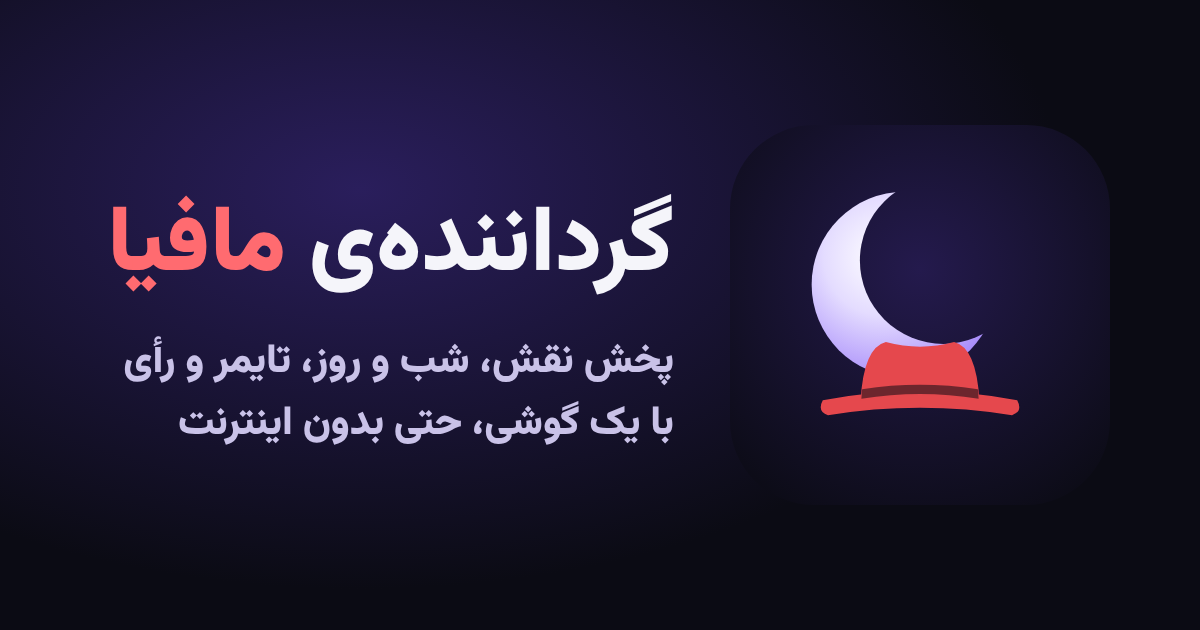
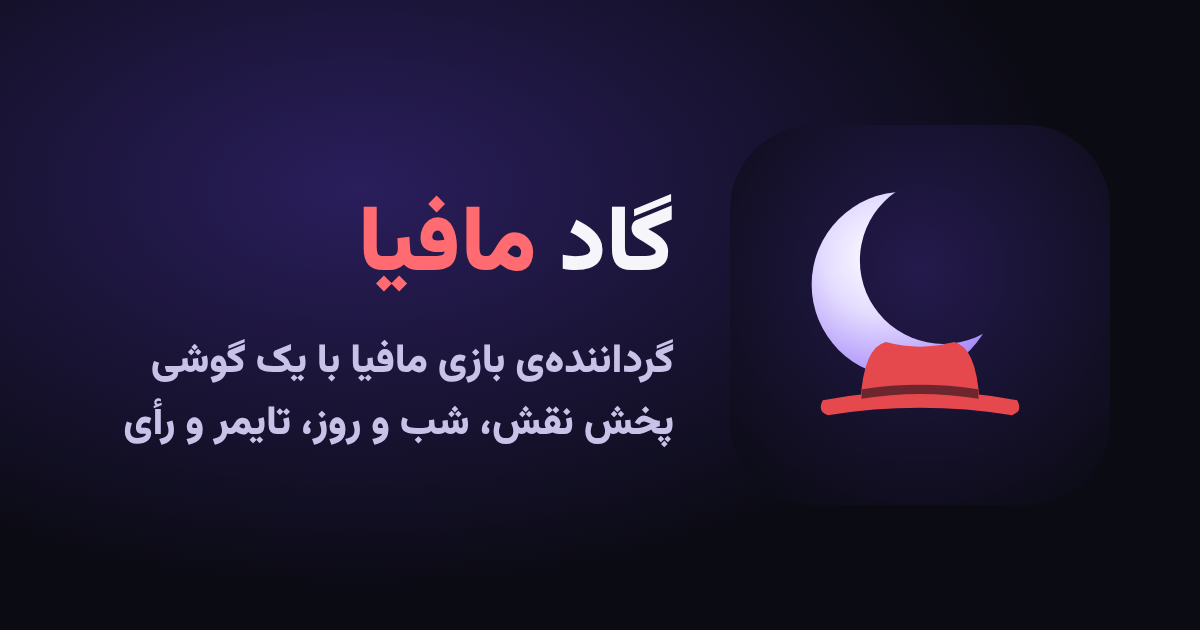
Rename the app to Mafia God (گاد مافیا)
App Store name: Mafia God: Party Narrator. Home-screen name, web tool,
landing pages (en/fa/ar), privacy pages and share image updated.

Claude-Session: https://claude.ai/code/session_01Cqd3caHEabPt51MdnxZ5SQ

Changed region(s): [[0.0925, 0.3016, 0.5242, 0.4825], [0.0925, 0.6333, 0.555, 0.7238], [0.0925, 0.5429, 0.5858, 0.6032]]

diff --git a/web/landing/mafia-app/fa/index.html b/web/landing/mafia-app/fa/index.html
@@ -3,7 +3,7 @@
 <head>
   <meta charset="utf-8">
   <meta name="viewport" content="width=device-width, initial-scale=1, viewport-fit=cover">
-  <title>گردانندهی مافیا | ابزار رایگان بازی مافیا</title>
+  <title>گاد مافیا | ابزار رایگان گردانندهی بازی مافیا</title>
   <meta name="description" content="ابزار رایگان گردانندهی بازی مافیا: پخش تصادفی نقش با یک گوشی، مدیریت شب و روز، تایمر صحبت و شمارش رأی. بدون نصب، حتی بدون اینترنت.">
   <meta name="theme-color" content="#0B0B14">
   <link rel="canonical" href="https://espadna.com/mafia-app/fa/">
@@ -16,7 +16,7 @@
   <meta property="og:type" content="website">
   <meta property="og:locale" content="fa_IR">
   <meta property="og:site_name" content="Espadna">
-  <meta property="og:title" content="گردانندهی مافیا 🕵 مافیای دورهمی را با یک گوشی بگردان">
+  <meta property="og:title" content="گاد مافیا 🕵 مافیای دورهمی را با یک گوشی بگردان">
   <meta property="og:description" content="ابزار رایگان گردانندهی بازی مافیا: پخش تصادفی نقش با یک گوشی، مدیریت شب و روز، تایمر صحبت و شمارش رأی. بدون نصب، حتی بدون اینترنت.">
   <meta property="og:url" content="https://espadna.com/mafia-app/fa/">
   <meta property="og:image" content="https://espadna.com/mafia-app/og.png">
@@ -25,13 +25,13 @@
   <meta name="twitter:card" content="summary_large_image">
   <link rel="preload" href="/mafia-app/fonts/vazirmatn-arabic-400-normal.woff2" as="font" type="font/woff2" crossorigin>
   <link rel="stylesheet" href="/mafia-app/style.css">
-  <script type="application/ld+json">{"@context": "https://schema.org", "@type": "WebApplication", "name": "گردانندهی مافیا", "description": "ابزار رایگان گردانندهی بازی مافیا: پخش تصادفی نقش با یک گوشی، مدیریت شب و روز، تایمر صحبت و شمارش رأی. بدون نصب، حتی بدون اینترنت.", "url": "https://espadna.com/mafia-app/fa/", "applicationCategory": "GameApplication", "operatingSystem": "Web, Android, iOS", "inLanguage": "fa", "offers": {"@type": "Offer", "price": "0", "priceCurrency": "USD"}, "publisher": {"@type": "Organization", "name": "Espadna", "url": "https://espadna.com"}}</script>
+  <script type="application/ld+json">{"@context": "https://schema.org", "@type": "WebApplication", "name": "گاد مافیا", "description": "ابزار رایگان گردانندهی بازی مافیا: پخش تصادفی نقش با یک گوشی، مدیریت شب و روز، تایمر صحبت و شمارش رأی. بدون نصب، حتی بدون اینترنت.", "url": "https://espadna.com/mafia-app/fa/", "applicationCategory": "GameApplication", "operatingSystem": "Web, Android, iOS", "inLanguage": "fa", "offers": {"@type": "Offer", "price": "0", "priceCurrency": "USD"}, "publisher": {"@type": "Organization", "name": "Espadna", "url": "https://espadna.com"}}</script>
 </head>
 <body>
   <header class="top">
     <div class="wrap">
-      <a class="brand" href="/mafia-app/fa/">🕵 گردانندهی مافیا <small>از اسپادنا</small></a>
-      <nav class="links" aria-label="گردانندهی مافیا">
+      <a class="brand" href="/mafia-app/fa/">🕵 گاد مافیا <small>از اسپادنا</small></a>
+      <nav class="links" aria-label="گاد مافیا">
         <a href="#how">چطور کار میکند</a><a href="#roles">نقشها</a><a href="#rules">یک دور بازی</a><a href="#faq">سؤالات</a>
       </nav>
       <div class="top-actions">

diff --git a/web/landing/mafia-app/ar/index.html b/web/landing/mafia-app/ar/index.html
@@ -3,7 +3,7 @@
 <head>
   <meta charset="utf-8">
   <meta name="viewport" content="width=device-width, initial-scale=1, viewport-fit=cover">
-  <title>راوي المافيا | أداة مجانية لإدارة لعبة المافيا</title>
+  <title>Mafia God | أداة مجانية لراوي لعبة المافيا</title>
   <meta name="description" content="أداة مجانية لراوي لعبة المافيا: توزيع الأدوار سرًا على هاتف واحد، إدارة الليل والنهار، مؤقت للكلام وعدّاد للتصويت. دون تثبيت، وتعمل دون إنترنت.">
   <meta name="theme-color" content="#0B0B14">
   <link rel="canonical" href="https://espadna.com/mafia-app/ar/">
@@ -16,7 +16,7 @@
   <meta property="og:type" content="website">
   <meta property="og:locale" content="ar_AR">
   <meta property="og:site_name" content="Espadna">
-  <meta property="og:title" content="راوي المافيا 🕵 أدِر سهرة المافيا بهاتف واحد">
+  <meta property="og:title" content="Mafia God 🕵 أدِر سهرة المافيا بهاتف واحد">
   <meta property="og:description" content="أداة مجانية لراوي لعبة المافيا: توزيع الأدوار سرًا على هاتف واحد، إدارة الليل والنهار، مؤقت للكلام وعدّاد للتصويت. دون تثبيت، وتعمل دون إنترنت.">
   <meta property="og:url" content="https://espadna.com/mafia-app/ar/">
   <meta property="og:image" content="https://espadna.com/mafia-app/og.png">
@@ -25,13 +25,13 @@
   <meta name="twitter:card" content="summary_large_image">
   <link rel="preload" href="/mafia-app/fonts/vazirmatn-arabic-400-normal.woff2" as="font" type="font/woff2" crossorigin>
   <link rel="stylesheet" href="/mafia-app/style.css">
-  <script type="application/ld+json">{"@context": "https://schema.org", "@type": "WebApplication", "name": "راوي المافيا", "description": "أداة مجانية لراوي لعبة المافيا: توزيع الأدوار سرًا على هاتف واحد، إدارة الليل والنهار، مؤقت للكلام وعدّاد للتصويت. دون تثبيت، وتعمل دون إنترنت.", "url": "https://espadna.com/mafia-app/ar/", "applicationCategory": "GameApplication", "operatingSystem": "Web, Android, iOS", "inLanguage": "fa", "offers": {"@type": "Offer", "price": "0", "priceCurrency": "USD"}, "publisher": {"@type": "Organization", "name": "Espadna", "url": "https://espadna.com"}}</script>
+  <script type="application/ld+json">{"@context": "https://schema.org", "@type": "WebApplication", "name": "Mafia God", "description": "أداة مجانية لراوي لعبة المافيا: توزيع الأدوار سرًا على هاتف واحد، إدارة الليل والنهار، مؤقت للكلام وعدّاد للتصويت. دون تثبيت، وتعمل دون إنترنت.", "url": "https://espadna.com/mafia-app/ar/", "applicationCategory": "GameApplication", "operatingSystem": "Web, Android, iOS", "inLanguage": "fa", "offers": {"@type": "Offer", "price": "0", "priceCurrency": "USD"}, "publisher": {"@type": "Organization", "name": "Espadna", "url": "https://espadna.com"}}</script>
 </head>
 <body>
   <header class="top">
     <div class="wrap">
-      <a class="brand" href="/mafia-app/ar/">🕵 راوي المافيا <small>من إسبادنا</small></a>
-      <nav class="links" aria-label="راوي المافيا">
+      <a class="brand" href="/mafia-app/ar/">🕵 Mafia God <small>من إسبادنا</small></a>
+      <nav class="links" aria-label="Mafia God">
         <a href="#how">كيف تعمل</a><a href="#roles">الأدوار</a><a href="#rules">جولة اللعب</a><a href="#faq">الأسئلة</a>
       </nav>
       <div class="top-actions">

diff --git a/web/landing/mafia-app/index.html b/web/landing/mafia-app/index.html
@@ -3,7 +3,7 @@
 <head>
   <meta charset="utf-8">
   <meta name="viewport" content="width=device-width, initial-scale=1, viewport-fit=cover">
-  <title>Mafia Narrator | Free host tool for the Mafia party game</title>
+  <title>Mafia God: Party Narrator | Free host tool for the Mafia game</title>
   <meta name="description" content="Free narrator tool for the Mafia (Werewolf) party game: deal secret roles on one phone, run night and day, talk timer and vote counter. No install, works offline.">
   <meta name="theme-color" content="#0B0B14">
   <link rel="canonical" href="https://espadna.com/mafia-app/">
@@ -16,7 +16,7 @@
   <meta property="og:type" content="website">
   <meta property="og:locale" content="en_US">
   <meta property="og:site_name" content="Espadna">
-  <meta property="og:title" content="Mafia Narrator 🕵 Host your Mafia night with one phone">
+  <meta property="og:title" content="Mafia God 🕵 Host your Mafia night with one phone">
   <meta property="og:description" content="Free narrator tool for the Mafia (Werewolf) party game: deal secret roles on one phone, run night and day, talk timer and vote counter. No install, works offline.">
   <meta property="og:url" content="https://espadna.com/mafia-app/">
   <meta property="og:image" content="https://espadna.com/mafia-app/og.png">
@@ -25,13 +25,13 @@
   <meta name="twitter:card" content="summary_large_image">
   <link rel="preload" href="/mafia-app/fonts/vazirmatn-arabic-400-normal.woff2" as="font" type="font/woff2" crossorigin>
   <link rel="stylesheet" href="/mafia-app/style.css">
-  <script type="application/ld+json">{"@context": "https://schema.org", "@type": "WebApplication", "name": "Mafia Narrator", "description": "Free narrator tool for the Mafia (Werewolf) party game: deal secret roles on one phone, run night and day, talk timer and vote counter. No install, works offline.", "url": "https://espadna.com/mafia-app/", "applicationCategory": "GameApplication", "operatingSystem": "Web, Android, iOS", "inLanguage": "fa", "offers": {"@type": "Offer", "price": "0", "priceCurrency": "USD"}, "publisher": {"@type": "Organization", "name": "Espadna", "url": "https://espadna.com"}}</script>
+  <script type="application/ld+json">{"@context": "https://schema.org", "@type": "WebApplication", "name": "Mafia God", "description": "Free narrator tool for the Mafia (Werewolf) party game: deal secret roles on one phone, run night and day, talk timer and vote counter. No install, works offline.", "url": "https://espadna.com/mafia-app/", "applicationCategory": "GameApplication", "operatingSystem": "Web, Android, iOS", "inLanguage": "fa", "offers": {"@type": "Offer", "price": "0", "priceCurrency": "USD"}, "publisher": {"@type": "Organization", "name": "Espadna", "url": "https://espadna.com"}}</script>
 </head>
 <body>
   <header class="top">
     <div class="wrap">
-      <a class="brand" href="/mafia-app/">🕵 Mafia Narrator <small>by Espadna</small></a>
-      <nav class="links" aria-label="Mafia Narrator">
+      <a class="brand" href="/mafia-app/">🕵 Mafia God <small>by Espadna</small></a>
+      <nav class="links" aria-label="Mafia God">
         <a href="#how">How it works</a><a href="#roles">Roles</a><a href="#rules">A round</a><a href="#faq">FAQ</a>
       </nav>
       <div class="top-actions">

diff --git a/web/landing/mafia-app/fa/privacy/index.html b/web/landing/mafia-app/fa/privacy/index.html
@@ -3,8 +3,8 @@
 <head>
   <meta charset="utf-8">
   <meta name="viewport" content="width=device-width, initial-scale=1, viewport-fit=cover">
-  <title>حریم خصوصی · گردانندهی مافیا</title>
-  <meta name="description" content="حریم خصوصی · گردانندهی مافیا">
+  <title>حریم خصوصی · گاد مافیا</title>
+  <meta name="description" content="حریم خصوصی · گاد مافیا">
   <meta name="theme-color" content="#0B0B14">
   <link rel="canonical" href="https://espadna.com/mafia-app/fa/privacy/">
   <link rel="icon" type="image/png" href="/mafia-app/favicon.png">
@@ -12,8 +12,8 @@
   <meta property="og:type" content="website">
   <meta property="og:locale" content="fa_IR">
   <meta property="og:site_name" content="Espadna">
-  <meta property="og:title" content="حریم خصوصی · گردانندهی مافیا">
-  <meta property="og:description" content="حریم خصوصی · گردانندهی مافیا">
+  <meta property="og:title" content="حریم خصوصی · گاد مافیا">
+  <meta property="og:description" content="حریم خصوصی · گاد مافیا">
   <meta property="og:url" content="https://espadna.com/mafia-app/fa/privacy/">
   <meta property="og:image" content="https://espadna.com/mafia-app/og.png">
   <meta property="og:image:width" content="1200">
@@ -24,10 +24,10 @@
 </head>
 <body>
   <main class="wrap doc">
-    <p><a href="/mafia-app/fa/">→ گردانندهی مافیا</a></p>
+    <p><a href="/mafia-app/fa/">→ گاد مافیا</a></p>
     <h1>سیاست حریم خصوصی</h1>
     <p>آخرین بهروزرسانی: ۱۹ مهر ۱۴۰۵</p>
-<h2>چه اطلاعاتی جمع میکنیم</h2><p>هیچ. گردانندهی مافیا حساب کاربری، تبلیغ، آمارگیری و ردیابی ندارد.</p>
+<h2>چه اطلاعاتی جمع میکنیم</h2><p>هیچ. گاد مافیا حساب کاربری، تبلیغ، آمارگیری و ردیابی ندارد.</p>
 <h2>اطلاعات بازی شما</h2><p>اسم بازیکنها، نقشها و وضعیت بازی فقط روی همان دستگاه (حافظهی مرورگر یا اپ) ذخیره میشود تا اگر صفحه بسته شد بازی ادامه پیدا کند. این اطلاعات هرگز برای ما یا هیچکس دیگری فرستاده نمیشود و با پاک کردن دادههای اپ یا مرورگر پاک میشود.</p>
 <h2>مجوزها</h2><p>اپ هیچ مجوزی نمیخواهد. لرزش فقط برای تایمر صحبت استفاده میشود.</p>
 <h2>کودکان</h2><p>اپ از هیچکس، از جمله کودکان، اطلاعات شخصی جمع نمیکند.</p>

diff --git a/web/landing/mafia-app/ar/privacy/index.html b/web/landing/mafia-app/ar/privacy/index.html
@@ -3,8 +3,8 @@
 <head>
   <meta charset="utf-8">
   <meta name="viewport" content="width=device-width, initial-scale=1, viewport-fit=cover">
-  <title>الخصوصية · راوي المافيا</title>
-  <meta name="description" content="الخصوصية · راوي المافيا">
+  <title>الخصوصية · Mafia God</title>
+  <meta name="description" content="الخصوصية · Mafia God">
   <meta name="theme-color" content="#0B0B14">
   <link rel="canonical" href="https://espadna.com/mafia-app/ar/privacy/">
   <link rel="icon" type="image/png" href="/mafia-app/favicon.png">
@@ -12,8 +12,8 @@
   <meta property="og:type" content="website">
   <meta property="og:locale" content="ar_AR">
   <meta property="og:site_name" content="Espadna">
-  <meta property="og:title" content="الخصوصية · راوي المافيا">
-  <meta property="og:description" content="الخصوصية · راوي المافيا">
+  <meta property="og:title" content="الخصوصية · Mafia God">
+  <meta property="og:description" content="الخصوصية · Mafia God">
   <meta property="og:url" content="https://espadna.com/mafia-app/ar/privacy/">
   <meta property="og:image" content="https://espadna.com/mafia-app/og.png">
   <meta property="og:image:width" content="1200">
@@ -24,10 +24,10 @@
 </head>
 <body>
   <main class="wrap doc">
-    <p><a href="/mafia-app/ar/">→ راوي المافيا</a></p>
+    <p><a href="/mafia-app/ar/">→ Mafia God</a></p>
     <h1>سياسة الخصوصية</h1>
     <p>آخر تحديث: ١١ أكتوبر ٢٠٢٦</p>
-<h2>ما الذي نجمعه</h2><p>لا شيء. لا يحتوي راوي المافيا على حسابات أو إعلانات أو إحصاءات أو تتبّع.</p>
+<h2>ما الذي نجمعه</h2><p>لا شيء. لا يحتوي Mafia God على حسابات أو إعلانات أو إحصاءات أو تتبّع.</p>
 <h2>بيانات لعبتك</h2><p>تُحفظ أسماء اللاعبين والأدوار وحالة اللعبة على جهازك فقط (في ذاكرة المتصفح أو التطبيق) لتستمر اللعبة بعد إغلاق الصفحة. لا تُرسل إلينا أو إلى أي جهة أخرى أبدًا، وتُحذف بحذف بيانات التطبيق أو المتصفح.</p>
 <h2>الأذونات</h2><p>لا يطلب التطبيق أي إذن. يُستخدم الاهتزاز لمؤقت الكلام فقط.</p>
 <h2>الأطفال</h2><p>لا يجمع التطبيق أي معلومات شخصية من أي أحد، بمن فيهم الأطفال.</p>

diff --git a/web/landing/mafia-app/privacy/index.html b/web/landing/mafia-app/privacy/index.html
@@ -3,8 +3,8 @@
 <head>
   <meta charset="utf-8">
   <meta name="viewport" content="width=device-width, initial-scale=1, viewport-fit=cover">
-  <title>Privacy policy · Mafia Narrator</title>
-  <meta name="description" content="Privacy policy · Mafia Narrator">
+  <title>Privacy policy · Mafia God</title>
+  <meta name="description" content="Privacy policy · Mafia God">
   <meta name="theme-color" content="#0B0B14">
   <link rel="canonical" href="https://espadna.com/mafia-app/privacy/">
   <link rel="icon" type="image/png" href="/mafia-app/favicon.png">
@@ -12,8 +12,8 @@
   <meta property="og:type" content="website">
   <meta property="og:locale" content="en_US">
   <meta property="og:site_name" content="Espadna">
-  <meta property="og:title" content="Privacy policy · Mafia Narrator">
-  <meta property="og:description" content="Privacy policy · Mafia Narrator">
+  <meta property="og:title" content="Privacy policy · Mafia God">
+  <meta property="og:description" content="Privacy policy · Mafia God">
   <meta property="og:url" content="https://espadna.com/mafia-app/privacy/">
   <meta property="og:image" content="https://espadna.com/mafia-app/og.png">
   <meta property="og:image:width" content="1200">
@@ -24,10 +24,10 @@
 </head>
 <body>
   <main class="wrap doc">
-    <p><a href="/mafia-app/">← Mafia Narrator</a></p>
+    <p><a href="/mafia-app/">← Mafia God</a></p>
     <h1>Privacy policy</h1>
     <p>Last updated: 11 October 2026</p>
-<h2>What we collect</h2><p>Nothing. Mafia Narrator has no accounts, no ads, no analytics and no tracking.</p>
+<h2>What we collect</h2><p>Nothing. Mafia God has no accounts, no ads, no analytics and no tracking.</p>
 <h2>Your game data</h2><p>Player names, roles and game progress are stored only on your device (in the browser or app storage) so a game can continue after the page is closed. They are never sent to us or to anyone else. Clearing the app data or browser data deletes them.</p>
 <h2>Permissions</h2><p>The app asks for no permissions. Vibration is used only for the talk timer.</p>
 <h2>Children</h2><p>The app collects no personal information from anyone, including children.</p>

diff --git a/web/tool/index.html b/web/tool/index.html
@@ -3,7 +3,7 @@
 <head>
   <meta charset="utf-8">
   <meta name="viewport" content="width=device-width, initial-scale=1, viewport-fit=cover">
-  <title>گردانندهی مافیا | اسپادنا</title>
+  <title>گاد مافیا | اسپادنا</title>
   <meta name="description" content="ابزار رایگان گردانندهی بازی مافیا: پخش تصادفی نقش، مدیریت شب و روز، تایمر صحبت و شمارش رأی. بدون اینترنت هم کار میکند.">
   <meta name="theme-color" content="#0B0B14">
   <link rel="manifest" href="manifest.webmanifest">

diff --git a/tools/landing.py b/tools/landing.py
@@ -30,9 +30,9 @@ MAFIA_TEAM = {'godfather', 'lecter', 'mafia'}
 
 T = {
     'fa': {
-        'title': 'گردانندهی مافیا | ابزار رایگان بازی مافیا',
+        'title': 'گاد مافیا | ابزار رایگان گردانندهی بازی مافیا',
         'desc': 'ابزار رایگان گردانندهی بازی مافیا: پخش تصادفی نقش با یک گوشی، مدیریت شب و روز، تایمر صحبت و شمارش رأی. بدون نصب، حتی بدون اینترنت.',
-        'brand': 'گردانندهی مافیا', 'by': 'از اسپادنا',
+        'brand': 'گاد مافیا', 'by': 'از اسپادنا',
         'nav': ['چطور کار میکند', 'نقشها', 'یک دور بازی', 'سؤالات'],
         'start': 'شروع بازی', 'how_btn': 'چطور کار میکند؟',
         'eyebrow': 'رایگان · بدون نصب · بدون اینترنت',
@@ -74,13 +74,13 @@ T = {
                 ('قوانین با قوانین ما فرق دارد، چه کنم؟', 'ترکیب نقشها قابل تغییر است و گرداننده هر وقت بخواهد میتواند بازیکنی را دستی حذف یا به بازی برگرداند.')],
         'final_h': 'شب اول نزدیک است', 'final_sub': 'دوستانت را جمع کن و بازی را شروع کن.',
         'footer': 'بخشی از <a href="/fa/">اسپادنا</a>', 'privacy': 'حریم خصوصی', 'home': '/fa/',
-        'og_title': 'گردانندهی مافیا 🕵 مافیای دورهمی را با یک گوشی بگردان',
+        'og_title': 'گاد مافیا 🕵 مافیای دورهمی را با یک گوشی بگردان',
         'note': '',
     },
     'en': {
-        'title': 'Mafia Narrator | Free host tool for the Mafia party game',
+        'title': 'Mafia God: Party Narrator | Free host tool for the Mafia game',
         'desc': 'Free narrator tool for the Mafia (Werewolf) party game: deal secret roles on one phone, run night and day, talk timer and vote counter. No install, works offline.',
-        'brand': 'Mafia Narrator', 'by': 'by Espadna',
+        'brand': 'Mafia God', 'by': 'by Espadna',
         'nav': ['How it works', 'Roles', 'A round', 'FAQ'],
         'start': 'Start a game', 'how_btn': 'How does it work?',
         'eyebrow': 'Free · No install · Works offline',
@@ -123,13 +123,13 @@ T = {
                 ('Our house rules are different. What now?', 'Pick any role mix, and the narrator can remove or bring back a player by hand at any time.')],
         'final_h': 'The first night is coming', 'final_sub': 'Gather your friends and start.',
         'footer': 'Part of <a href="/">Espadna</a>', 'privacy': 'Privacy', 'home': '/',
-        'og_title': 'Mafia Narrator 🕵 Host your Mafia night with one phone',
+        'og_title': 'Mafia God 🕵 Host your Mafia night with one phone',
         'note': 'The tool’s interface is in Persian.',
     },
     'ar': {
-        'title': 'راوي المافيا | أداة مجانية لإدارة لعبة المافيا',
+        'title': 'Mafia God | أداة مجانية لراوي لعبة المافيا',
         'desc': 'أداة مجانية لراوي لعبة المافيا: توزيع الأدوار سرًا على هاتف واحد، إدارة الليل والنهار، مؤقت للكلام وعدّاد للتصويت. دون تثبيت، وتعمل دون إنترنت.',
-        'brand': 'راوي المافيا', 'by': 'من إسبادنا',
+        'brand': 'Mafia God', 'by': 'من إسبادنا',
         'nav': ['كيف تعمل', 'الأدوار', 'جولة اللعب', 'الأسئلة'],
         'start': 'ابدأ اللعب', 'how_btn': 'كيف تعمل؟',
         'eyebrow': 'مجانية · دون تثبيت · دون إنترنت',
@@ -172,28 +172,28 @@ T = {
                 ('قواعدنا مختلفة، ماذا نفعل؟', 'اختر أي توزيعة أدوار، ويمكن للراوي إخراج لاعب أو إعادته يدويًا في أي وقت.')],
         'final_h': 'الليلة الأولى تقترب', 'final_sub': 'اجمع أصدقاءك وابدأ اللعب.',
         'footer': 'جزء من <a href="/ar/">إسبادنا</a>', 'privacy': 'الخصوصية', 'home': '/ar/',
-        'og_title': 'راوي المافيا 🕵 أدِر سهرة المافيا بهاتف واحد',
+        'og_title': 'Mafia God 🕵 أدِر سهرة المافيا بهاتف واحد',
         'note': 'واجهة الأداة بالفارسية.',
     },
 }
 
 PRIVACY = {
-    'en': ('Privacy policy · Mafia Narrator', 'Privacy policy', [
-        ('What we collect', 'Nothing. Mafia Narrator has no accounts, no ads, no analytics and no tracking.'),
+    'en': ('Privacy policy · Mafia God', 'Privacy policy', [
+        ('What we collect', 'Nothing. Mafia God has no accounts, no ads, no analytics and no tracking.'),
         ('Your game data', 'Player names, roles and game progress are stored only on your device (in the browser or app storage) so a game can continue after the page is closed. They are never sent to us or to anyone else. Clearing the app data or browser data deletes them.'),
         ('Permissions', 'The app asks for no permissions. Vibration is used only for the talk timer.'),
         ('Children', 'The app collects no personal information from anyone, including children.'),
         ('Contact', 'Questions: <a href="mailto:sepanta.hesaban@gmail.com">sepanta.hesaban@gmail.com</a>'),
     ]),
-    'fa': ('حریم خصوصی · گردانندهی مافیا', 'سیاست حریم خصوصی', [
-        ('چه اطلاعاتی جمع میکنیم', 'هیچ. گردانندهی مافیا حساب کاربری، تبلیغ، آمارگیری و ردیابی ندارد.'),
+    'fa': ('حریم خصوصی · گاد مافیا', 'سیاست حریم خصوصی', [
+        ('چه اطلاعاتی جمع میکنیم', 'هیچ. گاد مافیا حساب کاربری، تبلیغ، آمارگیری و ردیابی ندارد.'),
         ('اطلاعات بازی شما', 'اسم بازیکنها، نقشها و وضعیت بازی فقط روی همان دستگاه (حافظهی مرورگر یا اپ) ذخیره میشود تا اگر صفحه بسته شد بازی ادامه پیدا کند. این اطلاعات هرگز برای ما یا هیچکس دیگری فرستاده نمیشود و با پاک کردن دادههای اپ یا مرورگر پاک میشود.'),
         ('مجوزها', 'اپ هیچ مجوزی نمیخواهد. لرزش فقط برای تایمر صحبت استفاده میشود.'),
         ('کودکان', 'اپ از هیچکس، از جمله کودکان، اطلاعات شخصی جمع نمیکند.'),
         ('تماس', 'سؤالها: <a href="mailto:sepanta.hesaban@gmail.com">sepanta.hesaban@gmail.com</a>'),
     ]),
-    'ar': ('الخصوصية · راوي المافيا', 'سياسة الخصوصية', [
-        ('ما الذي نجمعه', 'لا شيء. لا يحتوي راوي المافيا على حسابات أو إعلانات أو إحصاءات أو تتبّع.'),
+    'ar': ('الخصوصية · Mafia God', 'سياسة الخصوصية', [
+        ('ما الذي نجمعه', 'لا شيء. لا يحتوي Mafia God على حسابات أو إعلانات أو إحصاءات أو تتبّع.'),
         ('بيانات لعبتك', 'تُحفظ أسماء اللاعبين والأدوار وحالة اللعبة على جهازك فقط (في ذاكرة المتصفح أو التطبيق) لتستمر اللعبة بعد إغلاق الصفحة. لا تُرسل إلينا أو إلى أي جهة أخرى أبدًا، وتُحذف بحذف بيانات التطبيق أو المتصفح.'),
         ('الأذونات', 'لا يطلب التطبيق أي إذن. يُستخدم الاهتزاز لمؤقت الكلام فقط.'),
         ('الأطفال', 'لا يجمع التطبيق أي معلومات شخصية من أي أحد، بمن فيهم الأطفال.'),

diff --git a/mobile/README.md b/mobile/README.md
@@ -1,8 +1,8 @@
-# Mafia narrator — Android (Cafe Bazaar) and iOS
+# Mafia God (گاد مافیا) — Android (Cafe Bazaar) and iOS
 
 The apps are the web tool (`web/tool/`) inside a Capacitor shell: same files,
 packed into the app, works fully offline. Bundle id / package:
-`com.espadna.mafia`. Home-screen name: «مافیا».
+`com.espadna.mafia`. Home-screen name: «گاد مافیا»; App Store name: "Mafia God: Party Narrator".
 
 ```bash
 cd mobile

diff --git a/web/README.md b/web/README.md
@@ -1,4 +1,4 @@
-# Mafia narrator tool — web
+# Mafia God (گاد مافیا) — web
 
 | Address | What | Source |
 |---|---|---|
